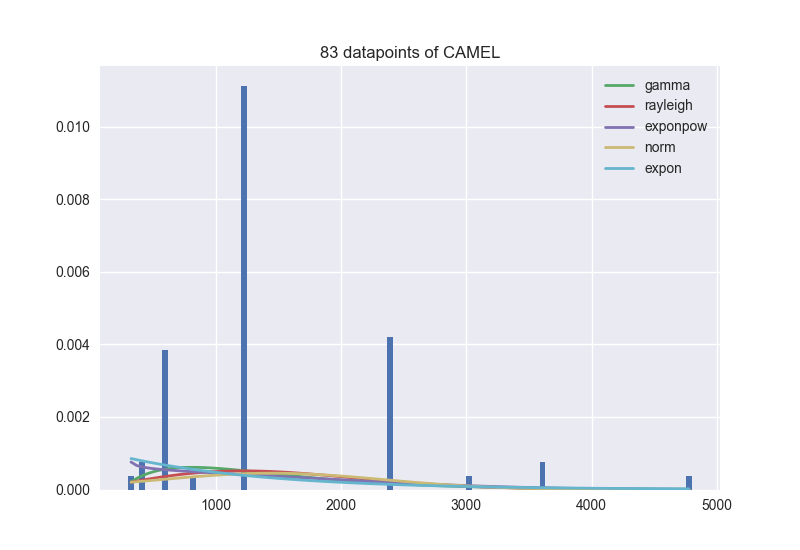
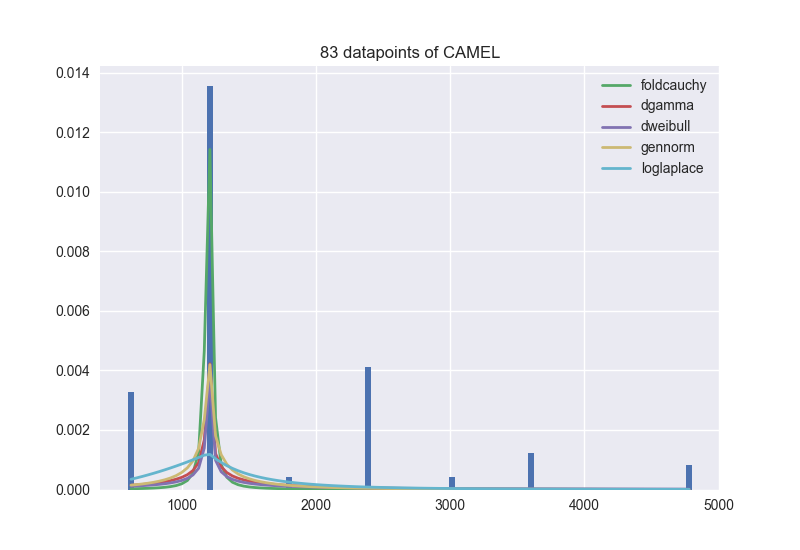
more functions, better structure, added scatter plot

diff --git a/csv handler.py b/csv handler.py
@@ -1,6 +1,7 @@
 import pandas as pd
 import matplotlib.pyplot as plt
 import fitter as f
+import numpy as np
 import datetime
 
 
@@ -14,10 +15,7 @@ df = pd.read_csv(csv, header=0, index_col=False, names = ['Organization', 'Proje
 training_amount = .70
 test_project = 'HUDI'
 
-def write_density(project, density):
-    f = open('plots/densities.txt', 'a')
-    f.write(project + ' (' + datetime.datetime.now().strftime('%d.%m %H:%M') + '):\n' + str(density))
-
+# Remove unnecessary data, create training and validation datasets
 def collect_data(project):
     # actual data
     data = pd.DataFrame(df[df['Project'] == project], columns= ['Issue', 'SP', 'Time Spent'])
@@ -31,28 +29,69 @@ def collect_data(project):
     data['SP Cost'] = data['Time Spent'] / data['SP'] 
 
     # splitting to training and validation dataset
-    training = data.sample(frac=training_amount)
+    training = data.sample(frac=training_amount, random_state=123)
     validation = data.drop(training.index)
-    print('There are ' + str(training.shape[0]) + ' datapoints in training dataset')
 
-    # checking density functions 
-    fitter = f.Fitter(training['SP Cost'], distributions = f.get_distributions())
-    fitter.fit()
-    write_density(project, fitter.get_best(method = 'sumsquare_error'))
-    fitter.summary()
-    plt.title(label = (str(data.shape[0]) + ' datapoints of ' + project))
+    print('There are ' + str(training.shape[0]) + ' datapoints in training dataset')
+    plt.title(label = (str(training.shape[0]) + ' datapoints of ' + project))
+
     return training
+
+def plot_scatter(data):
+    x = data['Time Spent']
+    y = data['SP']
+    plt.scatter(x, y)
+    z = np.polyfit(x, y, 1)
+    p = np.poly1d(z)
+    plt.plot(x, p(x), 'r--')
+
+
+# Write density info to txt file
+def write_density(project, density):
+    f = open('plots/densities.txt', 'a')
+    f.write(project + ' (' + datetime.datetime.now().strftime('%d.%m %H:%M') + '):\n' + str(density))
+
+# Call Fitter to find best fitting density distributions
+def analyse_density(data, project, all_dist, plot):
+    # checking density functions 
+    fitter = f.Fitter(data['SP Cost'], distributions = f.get_distributions() if all_dist else f.get_common_distributions())
+    fitter.fit()
+
+    write_density(project, fitter.get_best(method = 'sumsquare_error') + '\n\n')
+    if plot: fitter.summary()
+    
 
 def show_plot():
     plt.show()
 
-def save_plot(project):
+def save_plot(project, folder = '', suffix=''):
+    path = 'plots/'
+    if folder: 
+        path+= folder + '/'
+    path+= project
+    if suffix: 
+        path+= folder + '/'
+    path+='.png'
     plt.savefig('plots/'+project+'.png')
 
 def count_issues():
     print(df.groupby('Project')['Issue'].nunique())
 
+def iterate(all_dist=True):
+    for project in df['Project'].unique():
+        print(project)
+        data = collect_data(project)
+        analyse_density(data, project, all_dist, plot=True)
+        save_plot(project)
+    
+def test(all_dist=False):
+    print(test_project)
+    data = collect_data(test_project)
+    plot_scatter(data)
+    show_plot()
+
 for project in df['Project'].unique():
-    print(project)
-    collect_data(project)
+    print(test_project)
+    data = collect_data(test_project)
+    plot_scatter(data)
     save_plot(project)
